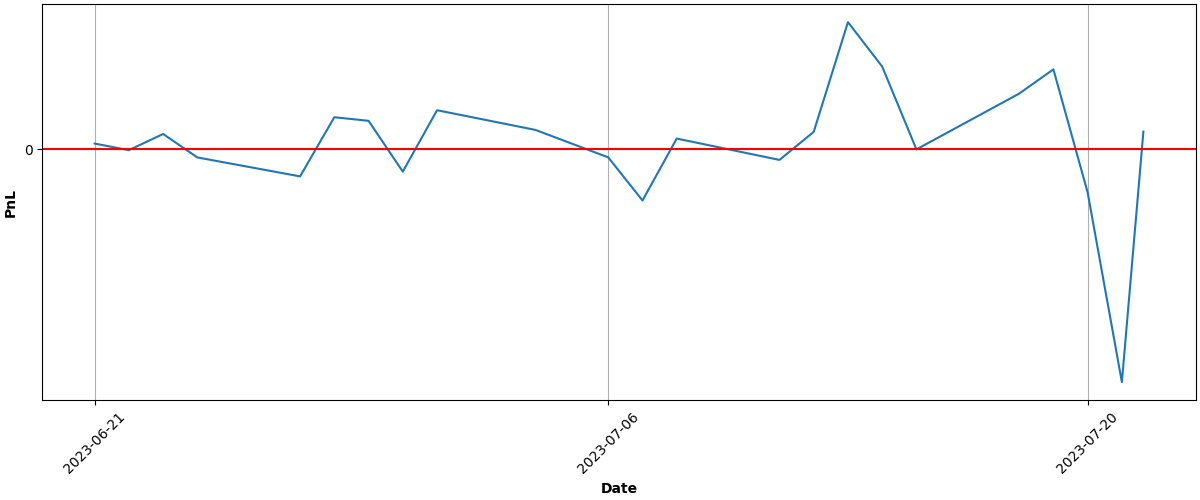
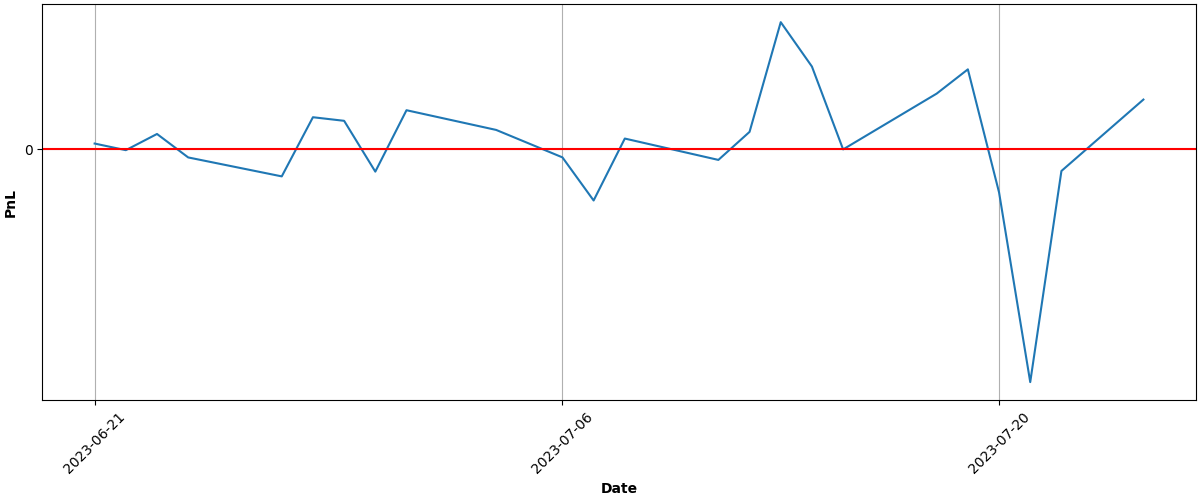
Automated Buy At Mon Jul 24 15:04:36 UTC 2023 Run ID 5646519287

diff --git a/README.md b/README.md
@@ -68,9 +68,9 @@ Results
 
 | Asset | Average Price | Current Price | ROI | 📈 |
 | --- | --- | --- | --- | --- |
-| FNGU | $190.278443767 | $187.11 | -1.67% | &#128308;&#128546; |
-| SVIX | $27.2935 | $29.5401 | 8.23% | &#128994;&#128515; |
-| **Total** |  |  | **3.60%** | &#128994;&#128518; |
+| FNGU | $190.07955898 | $185.395 | -2.46% | &#128308;&#128546; |
+| SVIX | $27.2935 | $29.91 | 9.59% | &#128994;&#128515; |
+| **Total** |  |  | **3.83%** | &#128994;&#128518; |
 
 ### PnL over time (calculations may not be accurate):
 
@@ -81,6 +81,6 @@ Results
 ---
 
 
-Updated at 2023-07-21 15:04:58
+Updated at 2023-07-24 15:04:59
 
 
